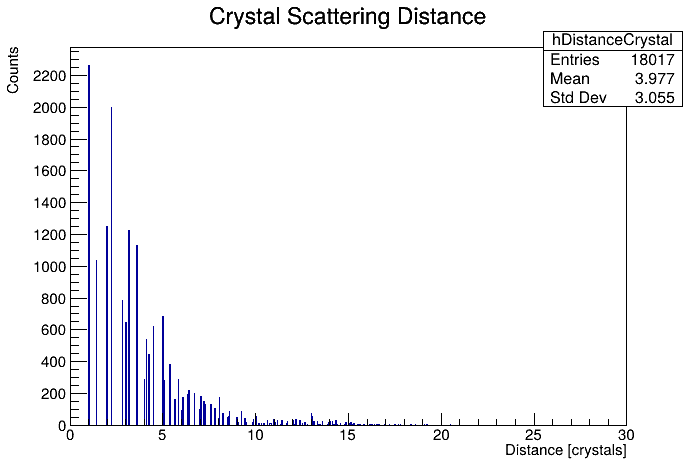
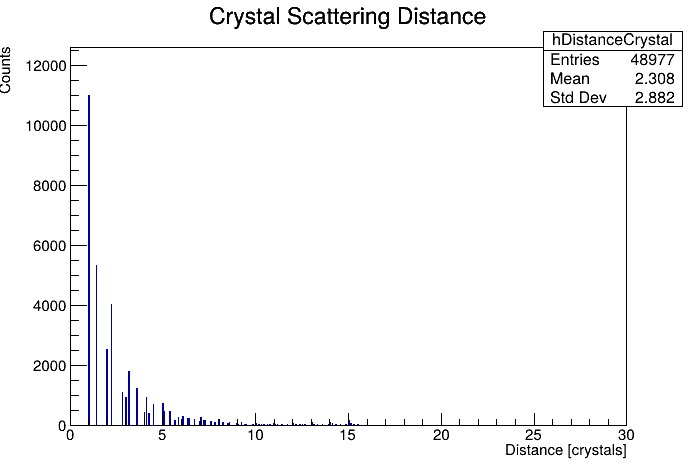
aggiunto hScatterAngle

diff --git a/RootAnalysis.cc b/RootAnalysis.cc
@@ -1,8 +1,8 @@
-// $Id: RootAnalysis.cc 4 2025-1-20 martelli $
+// $Id: RootAnalysis.cc 4 2025-1-24 martelli $
 /**
  * @file   RootAnalysis.cc
  *
- * @date   20 Jan 2025
+ * @date   24 Jan 2025
  * @author martelli
  *
  * @brief  Simple program for opening a previous .root file
@@ -25,6 +25,7 @@
 #include <ROOT/RDataFrame.hxx>
 #include <TCanvas.h>
 //C++
+#include <cmath>
 #include <iostream>
 #include <vector>
 #include <string>
@@ -52,6 +53,28 @@
  *
  *
  */
+
+// Physics constants
+const Double_t h = TMath::H();     // Planck [J*s]
+const Double_t c = TMath::C();     // light speed [m/s]
+const Double_t me = 9.10938356e-31;    // m electron [kg]
+const Double_t Qe = TMath::Qe(); // q electron [eV->J]
+const Double_t en511 = 511*1000*Qe; // [J]
+const Double_t lambdaIn = h*c/en511; // lambda of 511keV [m]
+
+// this function takes in the energy deposit by the scattered 511 and returns its scatter angle by reversing Compton formula
+Float_t scatterAngle (Double_t edep)
+{
+    Double_t enGamma2 = (511*1000 - edep*1000)*Qe;
+    Double_t lambdaOut = h*c/enGamma2;
+
+    Double_t angleR = TMath::ACos( 1 + (lambdaIn - lambdaOut)*me*c/h  ); // Rad
+
+    Double_t angleD = angleR*TMath::RadToDeg(); // Deg
+
+    return angleD;
+}
+
 
 
 int main()
@@ -129,13 +152,15 @@ int main()
 
     Float_t dx1, dy1, dz1, dx2, dy2, dz2;
     Int_t dxc1, dxc2, dyc1, dyc2;
-    Float_t distance, distanceXY, crydistance;
+    Float_t distance, distanceXY, crydistance, sAngle;
 
     // Histograms
     TH1D *hDistanceScattering = new TH1D("hDistanceScattering", "Scattering Distance;Distance [mm];Counts", 1000, 0, 30);
     TH1D *hDistanceCrystal = new TH1D("hDistanceCrystal", "Crystal Scattering Distance;Distance [crystals];Counts", 1000, 0, 30);
     TH1D *hDistanceZ = new TH1D("hDistanceZ", "Scattering Distance along z-axis;Distance [mm];Counts", 1000, 0, 30);
+    TH1D *hScatterAngle = new TH1D("hScatterAngle", "Scattering Angle;Angle[#degree];Counts", 380, -5,180);
 
+    TH2D *hScatterEnergy0 = new TH2D("hScatterEnergy0", "#Deltaz = [0#;3)mm;xy-distance[mm];Energy[keV]", 80, 0, 40, 17, 0, 511);
     TH2D *hScatterEnergy1 = new TH2D("hScatterEnergy1", "#Deltaz = [3#;6)mm;xy-distance[mm];Energy[keV]", 80, 0, 40, 17, 0, 511);
     TH2D *hScatterEnergy2 = new TH2D("hScatterEnergy2", "#Deltaz = [6#;9)mm;xy-distance[mm];Energy[keV]", 80, 0, 40, 17, 0, 511);
     TH2D *hScatterEnergy3 = new TH2D("hScatterEnergy3", "#Deltaz = [9#;12)mm;xy-distance[mm];Energy[keV]", 80, 0, 40, 17, 0, 511);
@@ -211,12 +236,14 @@ int main()
                 dyc2 = TMath::Abs(mycrystalID[1]%16 - mycrystalID[2]%16);
 
                 // First couple condition
-                if(dx1 < 30 && dz1 > 3)
+                if(dx1 < 30)
                 {
                     distance = TMath::Sqrt(dx1 * dx1 + dy1 * dy1 + dz1 * dz1);
                     distanceXY = TMath::Sqrt(dx1 * dx1 + dy1 * dy1);
 
                     crydistance = TMath::Sqrt(dxc1*dxc1 + dyc1*dyc1);
+
+                    sAngle = scatterAngle(myedep[0]);
 
                     // Display some outputs...
                     //std::cout << myphotonID[i] << ", " << i << ", "<< myeventID[i] << ", (" << dx1 << "," << dy1 << "," << dz1 << ") " << "(" << dxc1 << "," << dyc1 << ")" <<  std::endl;
@@ -225,8 +252,13 @@ int main()
                     hDistanceScattering->Fill(distance);
                     hDistanceCrystal->Fill(crydistance);
                     hDistanceZ->Fill(dz1);
+                    hScatterAngle->Fill(sAngle);
 
-                    if(dz1 >= 3 && dz1 < 6)
+                    if (dz1 >= 0 && dz1 < 3)
+                    {
+                        hScatterEnergy0->Fill(distanceXY, myedep[0]);
+                    }
+                    else if(dz1 >= 3 && dz1 < 6)
                     {
                         hScatterEnergy1->Fill(distanceXY, myedep[0]);
                     }
@@ -244,12 +276,14 @@ int main()
                     }
                 }
                 // Second couple condition
-                else if(dz2 > 3)
+                else
                 {
                     distance = TMath::Sqrt(dx2 * dx2 + dy2 * dy2 + dz2 * dz2);
                     distanceXY = TMath::Sqrt(dx2 * dx2 + dy2 * dy2);
 
                     crydistance = TMath::Sqrt(dxc2*dxc2 + dyc2*dyc2);
+
+                    sAngle = scatterAngle(myedep[1]);
 
                     // Display some outputs...
                     //std::cout << myphotonID[i] << ", " << i << ", "<< myeventID[i] << ", (" << dx2 << "," << dy2 << "," << dz2 << ") " << "(" << dxc1 << "," << dyc1 << ")" <<  std::endl;
@@ -258,22 +292,27 @@ int main()
                     hDistanceScattering->Fill(distance);
                     hDistanceCrystal->Fill(crydistance);
                     hDistanceZ->Fill(dz2);
+                    hScatterAngle->Fill(sAngle);
 
-                    if(dz2 >= 3 && dz2 < 6)
+                    if (dz1 >= 0 && dz1 < 3)
                     {
-                        hScatterEnergy1->Fill(distanceXY, myedep[0]);
+                        hScatterEnergy0->Fill(distanceXY, myedep[1]);
+                    }
+                    else if(dz1 >= 3 && dz1 < 6)
+                    {
+                        hScatterEnergy1->Fill(distanceXY, myedep[1]);
                     }
                     else if (dz2 >= 6 && dz2 < 9)
                     {
-                        hScatterEnergy2->Fill(distanceXY, myedep[0]);
+                        hScatterEnergy2->Fill(distanceXY, myedep[1]);
                     }
                     else if (dz2 >= 9 && dz2 < 12)
                     {
-                        hScatterEnergy3->Fill(distanceXY, myedep[0]);
+                        hScatterEnergy3->Fill(distanceXY, myedep[1]);
                     }
                     else if (dz2 >= 12 && dz2 < 15)
                     {
-                        hScatterEnergy4->Fill(distanceXY, myedep[0]);
+                        hScatterEnergy4->Fill(distanceXY, myedep[1]);
                     }
                 }
                 // Now we skip the following 4th event (3 events processed in one time)
@@ -296,10 +335,12 @@ int main()
                 crydistance = TMath::Sqrt(dxc1*dxc1 + dyc1*dyc1);
 
                 // First couple condition
-                if(dx1 < 30 && dz1 > 3)
+                if(dx1 < 30)
                 {
                     distance = TMath::Sqrt(dx1 * dx1 + dy1 * dy1 + dz1 * dz1);
                     distanceXY = TMath::Sqrt(dx1 * dx1 + dy1 * dy1);
+
+                    sAngle = scatterAngle(myedep[0]);
 
                     // Display some outputs...
                     //std::cout << myphotonID[i] << ", " << i << ", "<< myeventID[i] << ", (" << dx1 << "," << dy1 << "," << dz1 << ")"<< std::endl;
@@ -308,8 +349,13 @@ int main()
                     hDistanceScattering->Fill(distance);
                     hDistanceCrystal->Fill(crydistance);
                     hDistanceZ->Fill(dz1);
+                    hScatterAngle->Fill(sAngle);
 
-                    if(dz1 >= 3 && dz1 < 6)
+                    if (dz1 >= 0 && dz1 < 3)
+                    {
+                        hScatterEnergy0->Fill(distanceXY, myedep[0]);
+                    }
+                    else if(dz1 >= 3 && dz1 < 6)
                     {
                         hScatterEnergy1->Fill(distanceXY, myedep[0]);
                     }
@@ -342,12 +388,14 @@ int main()
                 dxc2 = TMath::Abs(mycrystalID[1]/16 - mycrystalID[2]/16);
                 dyc2 = TMath::Abs(mycrystalID[1]%16 - mycrystalID[2]%16);
 
-                if (dx2 < 30 && dz2 > 3)
+                if (dx2 < 30)
                 {
                     distance = TMath::Sqrt(dx2 * dx2 + dy2 * dy2 + dz2 * dz2);
                     distanceXY = TMath::Sqrt(dx2 * dx2 + dy2 * dy2);
 
                     crydistance = TMath::Sqrt(dxc2*dxc2 + dyc2*dyc2);
+
+                    sAngle = scatterAngle(myedep[1]);
 
                     // Display some outputs...
                     //std::cout << myphotonID[i] << ", " << i << ", "<< myeventID[i] << ", (" << dx2 << "," << dy2 << "," << dz2 << ")"<< std::endl;
@@ -356,22 +404,27 @@ int main()
                     hDistanceScattering->Fill(distance);
                     hDistanceCrystal->Fill(crydistance);
                     hDistanceZ->Fill(dz2);
+                    hScatterAngle->Fill(sAngle);
 
-                    if(dz2 >= 3 && dz2 < 6)
+                    if (dz1 >= 0 && dz1 < 3)
                     {
-                        hScatterEnergy1->Fill(distanceXY, myedep[0]);
+                        hScatterEnergy0->Fill(distanceXY, myedep[1]);
+                    }
+                    else if(dz1 >= 3 && dz1 < 6)
+                    {
+                        hScatterEnergy1->Fill(distanceXY, myedep[1]);
                     }
                     else if (dz2 >= 6 && dz2 < 9)
                     {
-                        hScatterEnergy2->Fill(distanceXY, myedep[0]);
+                        hScatterEnergy2->Fill(distanceXY, myedep[1]);
                     }
                     else if (dz2 >= 9 && dz2 < 12)
                     {
-                        hScatterEnergy3->Fill(distanceXY, myedep[0]);
+                        hScatterEnergy3->Fill(distanceXY, myedep[1]);
                     }
                     else if (dz2 >= 12 && dz2 < 15)
                     {
-                        hScatterEnergy4->Fill(distanceXY, myedep[0]);
+                        hScatterEnergy4->Fill(distanceXY, myedep[1]);
                     }
                 }
                 // Now we skip to the 3rd event (2 events processed in one time)
@@ -393,6 +446,7 @@ int main()
     TFile *f = new TFile("root/histograms.root", "RECREATE");
     f->cd();
 
+    hScatterEnergy0->SetOption("colz");
     hScatterEnergy1->SetOption("colz");
     hScatterEnergy2->SetOption("colz");
     hScatterEnergy3->SetOption("colz");
@@ -401,7 +455,9 @@ int main()
     hDistanceScattering->Write("hDistanceScattering");
     hDistanceCrystal->Write("hDistanceCrystal");
     hDistanceZ->Write("hDistanceZ");
+    hScatterAngle->Write("hScatterAngle");
 
+    hScatterEnergy0->Write("hScatterEnergy0");
     hScatterEnergy1->Write("hScatterEnergy1");
     hScatterEnergy2->Write("hScatterEnergy2");
     hScatterEnergy3->Write("hScatterEnergy3");
@@ -422,6 +478,14 @@ int main()
 
     hDistanceZ->Draw();
     c1.SaveAs("png/hDistanceZ.png");
+    c1.Clear();
+
+    hScatterAngle->Draw();
+    c1.SaveAs("png/hScatterAngle.png");
+    c1.Clear();
+
+    hScatterEnergy0->Draw("colz");
+    c1.SaveAs("png/hScatterEnergy0.png");
     c1.Clear();
 
     hScatterEnergy1->Draw("colz");
